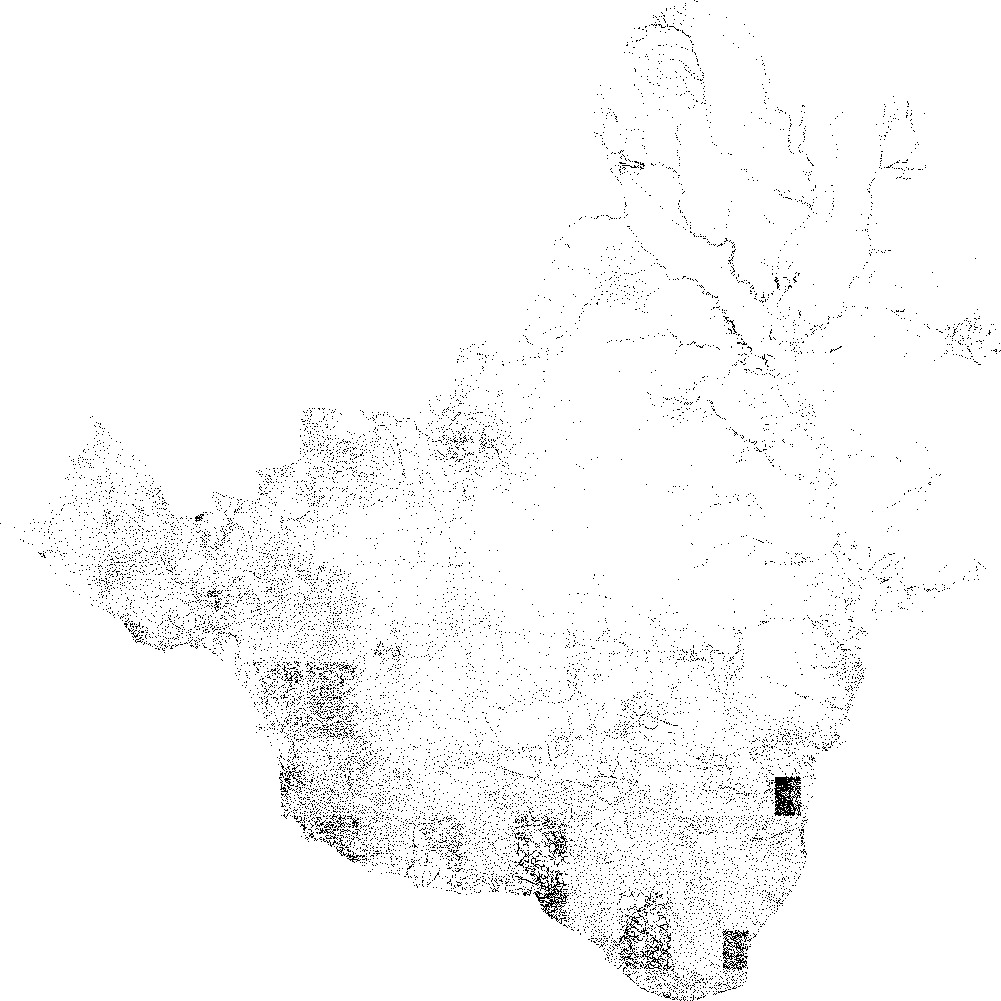
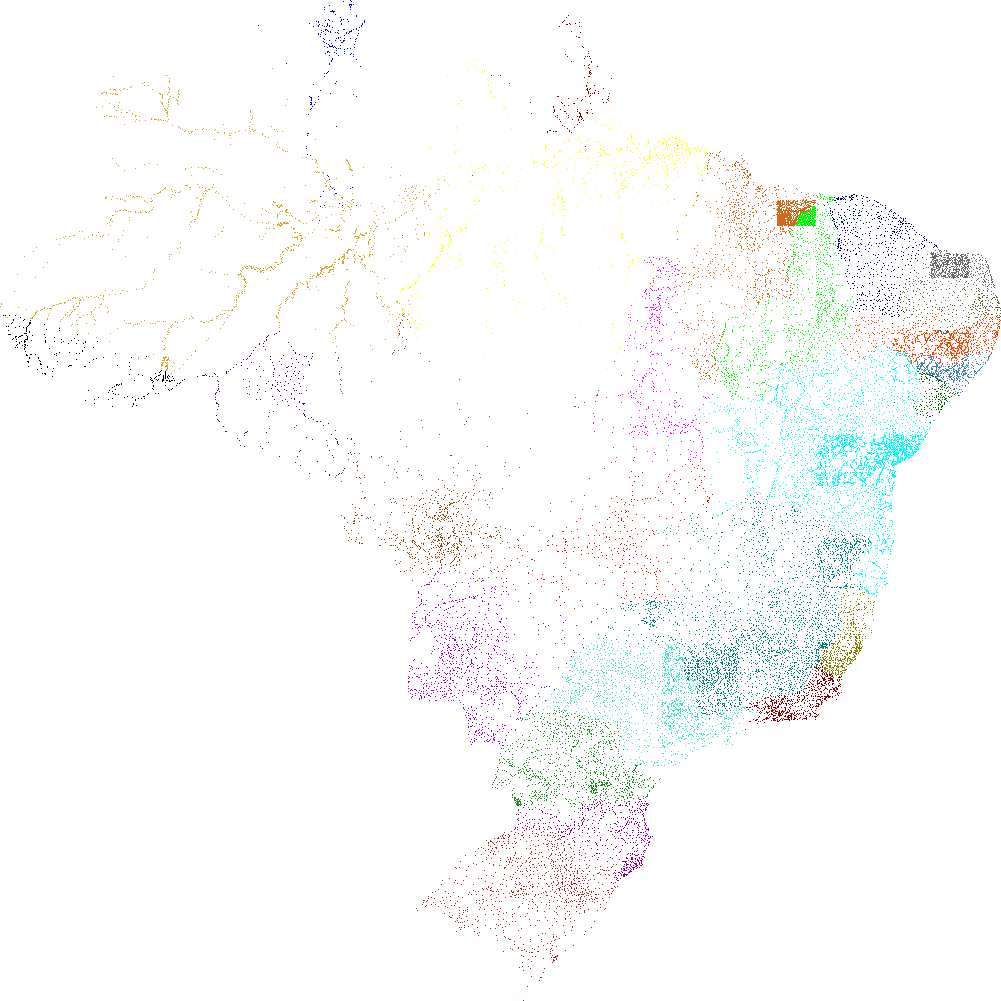
Complete tarefa DesenhandoCoordenadas

diff --git a/TarefaDesenhandoCoordenada/main.py b/TarefaDesenhandoCoordenada/main.py
@@ -1,6 +1,15 @@
+from distutils.log import error
 from PIL import Image
 
-# explicit function to normalize array
+'''
+Função para normalizar um array, dado seu máximo e seu mínimo, em um range de 0 a 1000 (pixels da imagem)
+
+Parâmetro
+arr > Array a ser normalizado
+
+Retorno
+Um array com os valores de arr normalizado
+'''
 def Normalize(arr):
     norm_arr = []
     MIN = min(arr)
@@ -11,25 +20,37 @@ def Normalize(arr):
         norm_arr.append(aux)
     return norm_arr
 
+'''
+Função para pegar as coordenadas de uma linha do arquivpo
+
+Parâmetros
+s > string linha do arquivo
+
+Retorno
+lista com [longitude, latitude, estado] daquela linha
+'''
 def GetCoordenadasFromFileString(s):
     str(s).replace("\n", "")
     s = str(s).split(';')
-    return [float(s[3]), float(s[4])]
+    return [float(s[3]), float(s[4]), s[1]]
 
 img = Image.new('RGB',(1001,1001),(255,255,255))
 
+# Ler arquivo
 file = open("coordenadas.txt", "r")
 fileData = file.readlines()
 file.close()
 
 latitudes = []
 longitudes = []
+estados = []
 
 # Pegando todas as latitudes e longitudes do arquivo
 for d in fileData:
     d = GetCoordenadasFromFileString(d)
     longitudes.append(d[0])
     latitudes.append(d[1])
+    estados.append(d[2])
 
 # Normalizando os valores separadamente
 normalized_lon = Normalize(longitudes)
@@ -40,10 +61,42 @@ coordenadas = []
 for i in range(0, len(longitudes)):
     coordenadas.append((round(normalized_lon[i]), round(normalized_lat[i])))
 
-preto = (0, 0, 0)
 pixel = img.load()
 
-for c in coordenadas:
-    pixel[c[0], c[1]] = preto
+cores = {
+    "Acre":(0, 0, 0),
+    "Roraima":(0, 0, 255),
+    "Amazonas":(218,165,32),
+    "Rondonia":(75,0,130),
+    "Amapa":(128,0,0),
+    "Para":(255,255,0),
+    "Tocantins":(255,0,255),
+    "Maranhao":(210,105,30),
+    "Piaui":(0,255,0),
+    "Bahia":(0,255,255),
+    "Ceara":(0,0,128),
+    "Rio Grande do Norte":(105,105,105),
+    "Paraiba":(85,107,47),
+    "Pernambuco":(255,69,0),
+    "Alagoas":(70,130,180),
+    "Sergipe":(0,100,0),
+    "Mato Grosso":(139,69,19),
+    "Mato Grosso do Sul":(148,0,211),
+    "NA":(255,0,0),
+    "Goias":(255,0,0),
+    "Minas Gerais":(0,128,128),
+    "Espirito Santo":(128,128,0),
+    "Rio de Janeiro":(139,0,0),
+    "Sao Paulo":(64,224,208),
+    "Parana":(34,139,34),
+    "Santa Catarina":(139,0,139),
+    "Rio Grande do Sul":(178,34,34),
+    "Distrito Federal":(60,179,113)
+}
 
-img.save("Brasil.png")
+for i in range(0, len(coordenadas)):
+    pixel[coordenadas[i][0], coordenadas[i][1]] = cores[estados[i]]
+
+
+img.rotate(90).save("Brasil.png")
+
